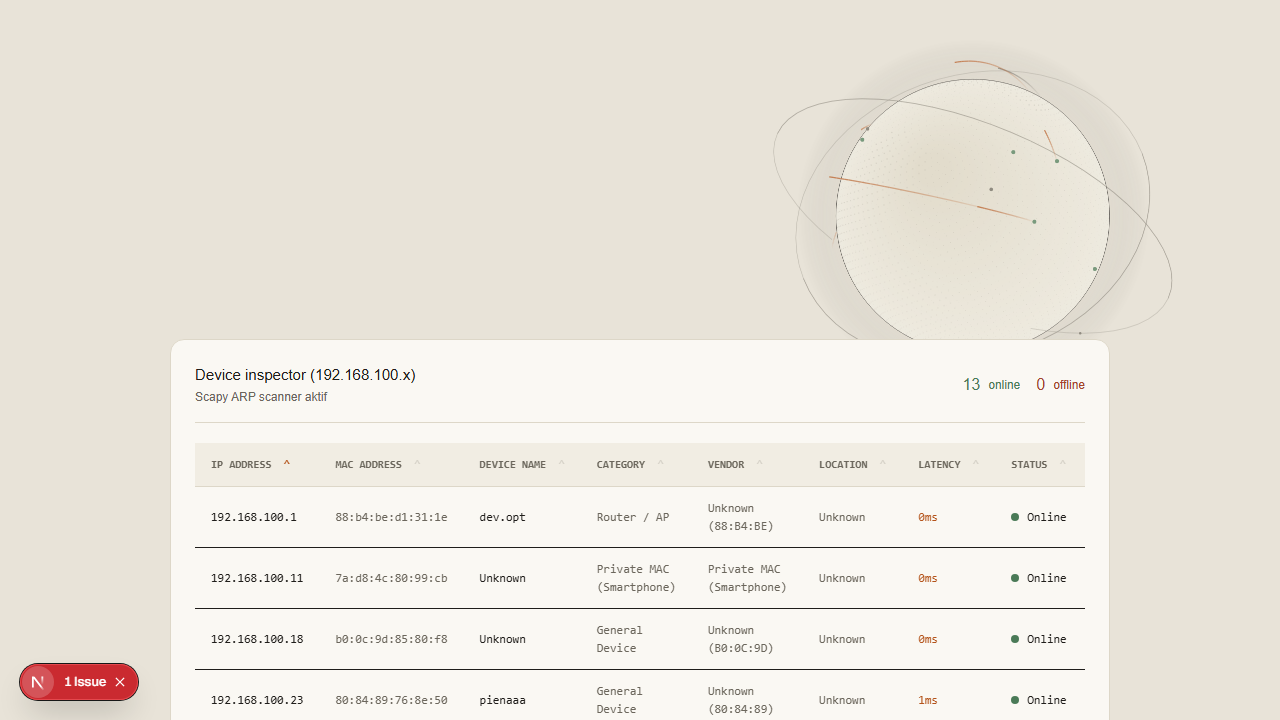
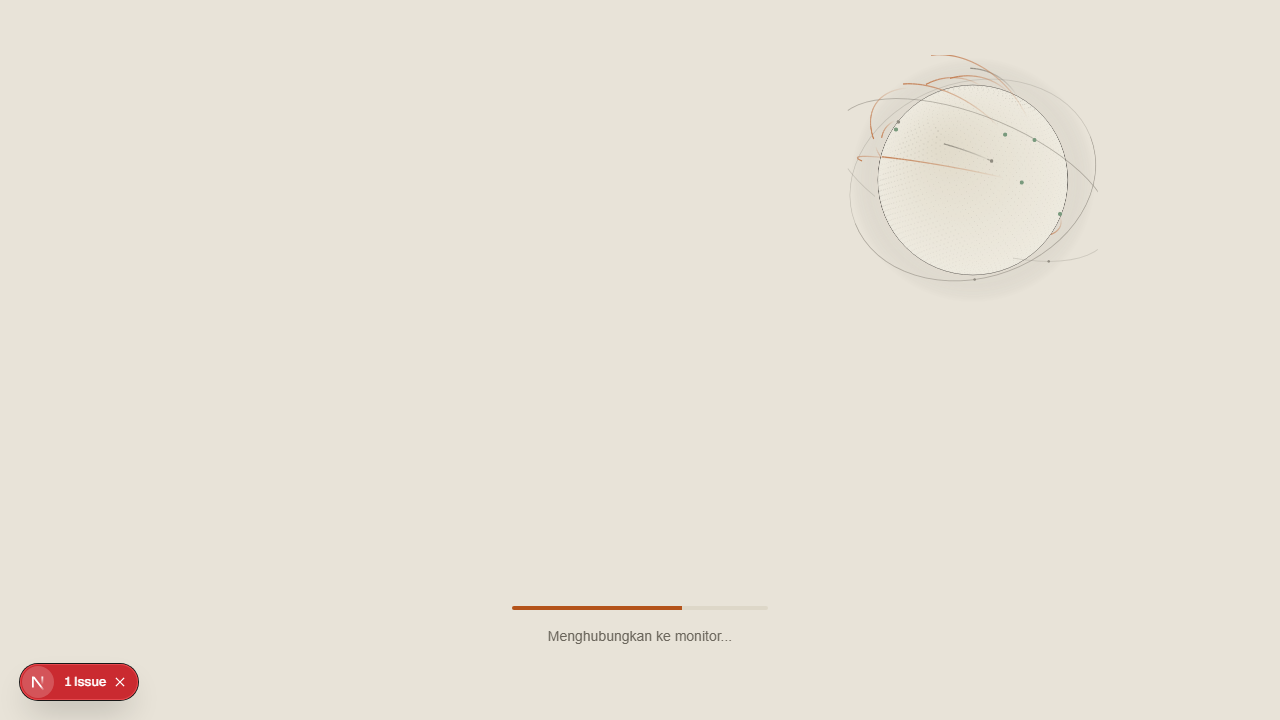
phase4-5

diff --git a/app/page.tsx b/app/page.tsx
@@ -12,6 +12,7 @@ import {
   alertsMotion,
   deviceInspectorMotion,
   scrollHintMotion,
+  scrollProgressDotsMotion,
   tableRowMotion,
 } from "@/lib/scrollMotion";
 
@@ -156,6 +157,7 @@ export default function DashboardPage() {
   const wrapperRef = useRef<HTMLDivElement>(null);
   const stageRef = useRef<HTMLDivElement>(null);
   const scrollHintRef = useRef<HTMLDivElement>(null);
+  const scrollDotsRef = useRef<HTMLDivElement>(null);
   const radarCardRef = useRef<HTMLDivElement>(null);
   const alertsCardRef = useRef<HTMLDivElement>(null);
   const inspectorCardRef = useRef<HTMLDivElement>(null);
@@ -194,6 +196,24 @@ export default function DashboardPage() {
       };
 
       applyEl(scrollHintRef.current, scrollHintMotion(p));
+
+      // Two-dot scroll-progress indicator on right edge: fill grows + active dot slides
+      if (scrollDotsRef.current) {
+        const dots = scrollProgressDotsMotion(p);
+        const fillEl = scrollDotsRef.current.querySelector('.scroll-dots-track-fill') as HTMLElement | null;
+        const activeEl = scrollDotsRef.current.querySelector('.scroll-dots-active') as HTMLElement | null;
+        if (fillEl) fillEl.style.height = dots.fillHeight;
+        if (activeEl) {
+          activeEl.style.top = dots.activeDotTop;
+          activeEl.style.opacity = String(dots.activeOpacity);
+        }
+        if (reduced) {
+          scrollDotsRef.current.style.opacity = "1";
+        } else {
+          scrollDotsRef.current.style.opacity = String(dots.activeOpacity === 0 ? 0 : 1);
+        }
+      }
+
       applyEl(radarCardRef.current, radarMotion(p));
       applyEl(alertsCardRef.current, alertsMotion(p));
       applyEl(inspectorCardRef.current, deviceInspectorMotion(p));
@@ -208,7 +228,7 @@ export default function DashboardPage() {
 
   useEffect(() => {
     // Scroll hint fades out early (0-0.1) via scrollHintMotion.
-    // Two-dot indicator position handled in Phase 3.
+    // Two-dot scroll-progress indicator motion applied in onProgress (Phase 3).
   }, []);
 
   const scrollToRadar = () => {
@@ -264,19 +284,37 @@ export default function DashboardPage() {
         {/* stageRef anchors --scroll-progress writes (not a layout element) */}
         <div ref={stageRef} className="absolute invisible" aria-hidden="true" />
 
+        {/* Skip-link for keyboard users: jump to radar section */}
+        <a href="#radar-section" className="skip-link">
+          Skip to radar
+        </a>
+
         {/* SEKSI 1: LANDING — globe-only full screen + "Scroll down" hint */}
-        <section className="connection-section relative z-10 h-screen w-full flex flex-col items-center justify-center pointer-events-none">
-          <div className="absolute bottom-8 left-1/2 -translate-x-1/2 text-center cursor-pointer" onClick={scrollToRadar}>
-            <p className="text-[var(--ink-soft)] text-[12px] font-sans mb-3 opacity-60">
-              Scroll down
-            </p>
-            <ChevronDown className="w-4 h-4 scroll-pill-icon mx-auto" style={{ color: COLORS.inkSoft }} />
+        <section
+          id="landing-section"
+          aria-label="Landing: network globe overview"
+          className="connection-section relative z-10 h-screen w-full flex flex-col items-center justify-center pointer-events-none"
+        >
+          <div className="absolute bottom-8 left-1/2 -translate-x-1/2 text-center pointer-events-auto">
+            <button
+              onClick={scrollToRadar}
+              aria-label="Scroll down to radar and alerts"
+              className="inline-flex flex-col items-center gap-1 focus:outline-none focus-visible:ring-2 focus-visible:ring-[var(--accent)] focus-visible:ring-offset-2"
+              style={{ color: COLORS.inkSoft }}
+            >
+              <p className="text-[var(--ink-soft)] text-[12px] font-sans mb-1 opacity-60">
+                Scroll down
+              </p>
+              <ChevronDown className="w-4 h-4 scroll-pill-icon mx-auto" style={{ color: COLORS.inkSoft }} />
+            </button>
           </div>
         </section>
 
         {/* SEKSI 2: GRID AREA (2 screens) — left column (Server conn + Alerts), right column (Radar) */}
         <section
+          id="radar-section"
           ref={radarSectionRef}
+          aria-label="Radar and alerts monitoring"
           className="relative z-10 h-[200vh] w-full flex items-center justify-center pointer-events-none"
         >
           <div className="w-full max-w-[1200px] grid grid-cols-[320px_1fr] items-start gap-[12px]">
@@ -337,8 +375,12 @@ export default function DashboardPage() {
           </div>
         </section>
 
-        {/* SEKSI 4: DEVICE INSPECTOR */}
-        <section className="inspector-section relative z-10 h-screen w-full flex flex-col justify-center px-4 pointer-events-none">
+        {/* SEKSI 3: DEVICE INSPECTOR */}
+        <section
+          id="inspector-section"
+          aria-label="Device inspector table"
+          className="inspector-section relative z-10 h-screen w-full flex flex-col justify-center px-4 pointer-events-none"
+        >
           <div
             ref={inspectorCardRef}
             data-testid="inspector-card"
@@ -383,7 +425,11 @@ export default function DashboardPage() {
                 <table
                   className="w-full mobile-table text-left"
                   style={{ fontFamily: "ui-monospace, Consolas, monospace", fontSize: "12px" }}
+                  aria-label="Network device scan results"
                 >
+                  <caption className="sr-only">
+                    Network device scan results — {validDevices.length} devices detected on {subnetPrefix}
+                  </caption>
                   <thead>
                     <tr
                       className="text-[var(--ink-soft)] border-b border-[var(--line)] uppercase text-[11px] sticky top-0"
@@ -515,6 +561,48 @@ export default function DashboardPage() {
             </div>
           </div>
         </section>
+
+        {/* Two-dot scroll-progress indicator (right edge, outside flow) */}
+        <div
+          ref={scrollDotsRef}
+          data-testid="scroll-progress-dots"
+          className="fixed top-1/2 -translate-y-1/2 right-6 z-40 flex flex-col items-center gap-1 pointer-events-none"
+          aria-hidden="true"
+        >
+          {/* Track rail */}
+          <div className="relative w-px h-40" style={{ backgroundColor: "transparent" }}>
+            {/* Top anchor dot (always visible, subtle) */}
+            <div
+              className="absolute left-1/2 -translate-x-1/2 w-[4px] h-[4px] rounded-full"
+              style={{ backgroundColor: COLORS.inkFaint, top: "0%" }}
+            />
+            {/* Bottom anchor dot (always visible, subtle) */}
+            <div
+              className="absolute left-1/2 -translate-x-1/2 w-[4px] h-[4px] rounded-full"
+              style={{ backgroundColor: COLORS.inkFaint, bottom: "0%" }}
+            />
+            {/* Filled track (grows bottom-up as progress advances) */}
+            <div
+              className="absolute left-1/2 -translate-x-1/2 w-px scroll-dots-track-fill"
+              style={{
+                backgroundColor: COLORS.accent,
+                bottom: "0%",
+                height: "0%",
+                opacity: 0.6,
+              }}
+            />
+            {/* Active indicator dot (slides from top to bottom as p goes 0→1) */}
+            <div
+              className="absolute left-1/2 -translate-x-1/2 w-[6px] h-[6px] rounded-full scroll-dots-active"
+              style={{
+                backgroundColor: COLORS.accent,
+                top: "6%",
+                opacity: 0,
+                transition: "none",
+              }}
+            />
+          </div>
+        </div>
 
         {/* Debug overlay: progress value (dev + ?motion=debug) */}
         {showProgressDebug && (

diff --git a/app/globals.css b/app/globals.css
@@ -105,3 +105,76 @@ body {
     min-width: 600px;
   }
 }
+
+/* Phase 5 — Accessibility focus ring */
+@media (hover: hover) and (prefers-reduced-motion: no-preference) {
+  a:focus-visible,
+  button:focus-visible,
+  th:focus-visible,
+  th[role="button"]:focus-visible {
+    outline: 2px solid var(--accent);
+    outline-offset: 2px;
+  }
+}
+
+/* Skip-link (visible on focus only) */
+.skip-link {
+  position: absolute;
+  top: -2.5rem;
+  left: 0.5rem;
+  z-index: 9999;
+  padding: 0.5rem 0.75rem;
+  background: var(--accent);
+  color: #fff;
+  font-size: 0.8rem;
+  font-family: var(--font-sans);
+  border-radius: var(--radius-ctl);
+  text-decoration: none;
+}
+.skip-link:focus-visible {
+  top: 0.5rem;
+  outline: 2px solid var(--accent);
+  outline-offset: 2px;
+}
+
+/* Reduced motion: suppress all non-essential motion (glob, scrolls) */
+@media (prefers-reduced-motion: reduce) {
+  [data-motion="on"] .motion-section,
+  [data-motion="on"] .globe-motion {
+    transform: none !important;
+    opacity: 1 !important;
+  }
+}
+
+/* Mobile: tighten grid layout for small viewports */
+@media (max-width: 640px) {
+  [data-testid="scroll-progress-dots"] {
+    right: 0.5rem;
+  }
+  .grid-cols-\[320px_1fr\] {
+    grid-template-columns: 1fr;
+  }
+  .gap-\[12px\] {
+    gap: 8px;
+  }
+  .inspector-section .px-4 {
+    padding-left: 0.5rem;
+    padding-right: 0.5rem;
+  }
+  .inspector-section [data-testid="inspector-card"] {
+    padding: 14px 12px;
+  }
+}
+
+/* Screen-reader-only utility */
+.sr-only {
+  position: absolute;
+  width: 1px;
+  height: 1px;
+  padding: 0;
+  margin: -1px;
+  overflow: hidden;
+  clip: rect(0, 0, 0, 0);
+  white-space: nowrap;
+  border: 0;
+}

diff --git a/lib/scrollMotion.ts b/lib/scrollMotion.ts
@@ -130,6 +130,35 @@ export function scrollHintMotion(p: number): ElementMotionState {
 }
 
 /**
+ * Two-dot scroll progress indicator on the right edge.
+ * A single active dot fills from 0→1, second dot acts as the "end" marker.
+ * Active dot height = p × full height; fills bottom-up from the bottom dot position.
+ */
+export function scrollProgressDotsMotion(p: number): { activeOpacity: number; fillHeight: string; activeDotTop: string } {
+  // Both dots visible from p=0.0 to 0.16 (fade in over that range, then stay 1)
+  const enter = seg(p, cfg.segments.scrollProgressDots.a, cfg.segments.scrollProgressDots.b);
+  const enterEase = smoothstep(enter);
+  const activeOpacity = enterEase < 0.01 ? 0 : enterEase > 0.99 ? 1 : enterEase;
+
+  // Filled segment grows from 0 → full height as p goes 0 → 1
+  const clampedP = Math.max(0, Math.min(1, p));
+  const fillHeight = `${clampedP * 100}%`;
+
+  // Active (top) dot slides down from top dot to bottom dot position as p goes 0 → 1
+  // Top dot at ~24px from top of container, bottom dot at ~24px from bottom
+  // Interpolate: at p=0 the "active" marker is at the top dot; at p=1 it's at bottom dot
+  const trackHeight = 100; // relative % units of the dots container
+  const dotOffset = 6; // 6% from top/bottom to center dots in track
+  const activeDotTop = `${dotOffset + clampedP * (trackHeight - 2 * dotOffset)}%`;
+
+  return {
+    activeOpacity,
+    fillHeight,
+    activeDotTop,
+  };
+}
+
+/**
  * Table row staggered entry.
  * row i appears starting at start + i*perRow, fully visible at start + i*perRow + (fadeInEnd-start).
  * Max first 10 rows get staggered; beyond that, still show but no stagger timing beyond.

diff --git a/lib/scrollMotion.config.ts b/lib/scrollMotion.config.ts
@@ -10,6 +10,7 @@ export interface ScrollMotionConfig {
   reducedMotionFactor: number;
   segments: {
     scrollHint: Segment;
+    scrollProgressDots: Segment;
     radar: Segment;
     radarOut: Segment;
     alerts: Segment;
@@ -55,6 +56,7 @@ export const scrollMotionConfig: ScrollMotionConfig = {
   reducedMotionFactor: 1,
   segments: {
     scrollHint: { a: 0.0, b: 0.1 },
+    scrollProgressDots: { a: 0.0, b: 0.16 }, // fade in during landing, stay through full scroll
     radar: { a: 0.16, b: 0.32 },
     radarOut: { a: 0.5, b: 0.62 },
     alerts: { a: 0.3, b: 0.42 },

diff --git a/app/layout.tsx b/app/layout.tsx
@@ -10,8 +10,8 @@ export const metadata: Metadata = {
 export default function RootLayout({ children }: { children: React.ReactNode }) {
   return (
     <html
-      lang="en"
-      className="h-full antialiased"
+      lang="id"
+      className="h-full antialiased scroll-py-0"
     >
       <body className="min-h-full flex flex-col">
         <NetworkProvider>
